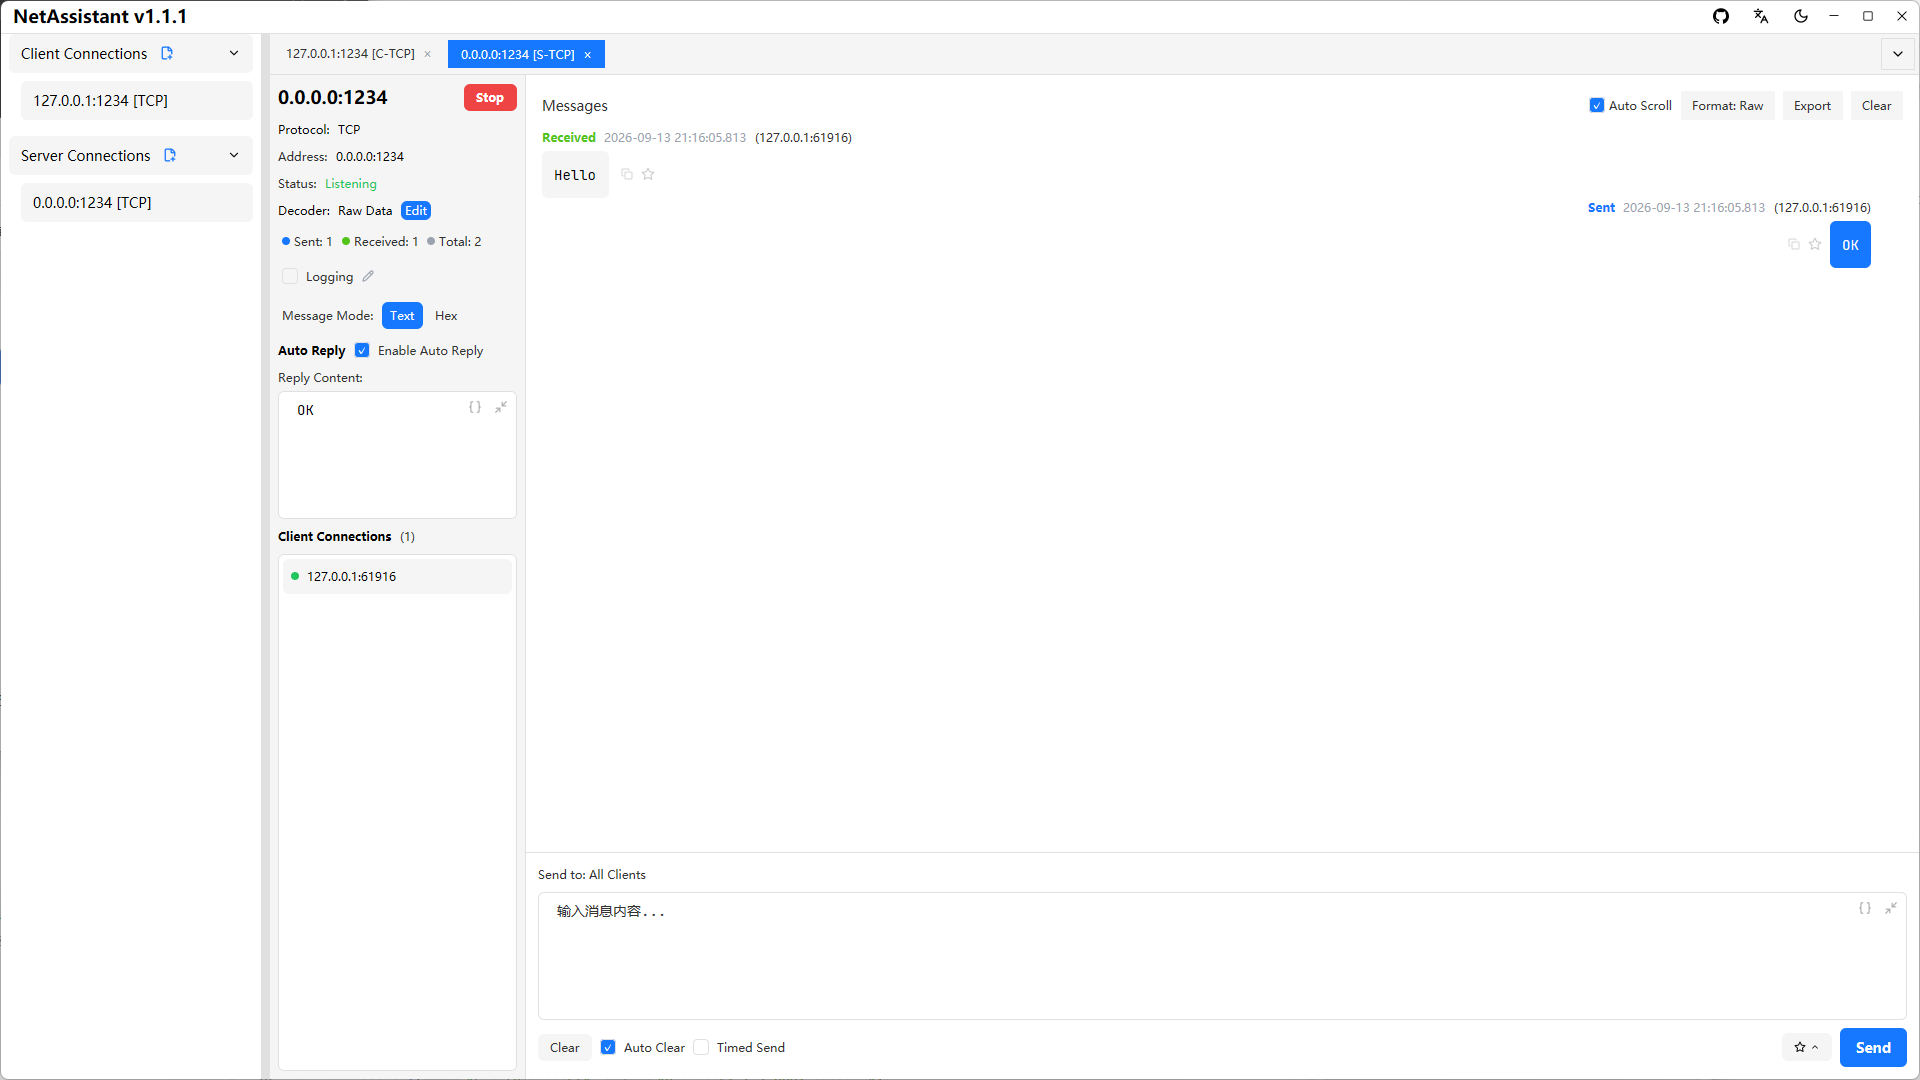
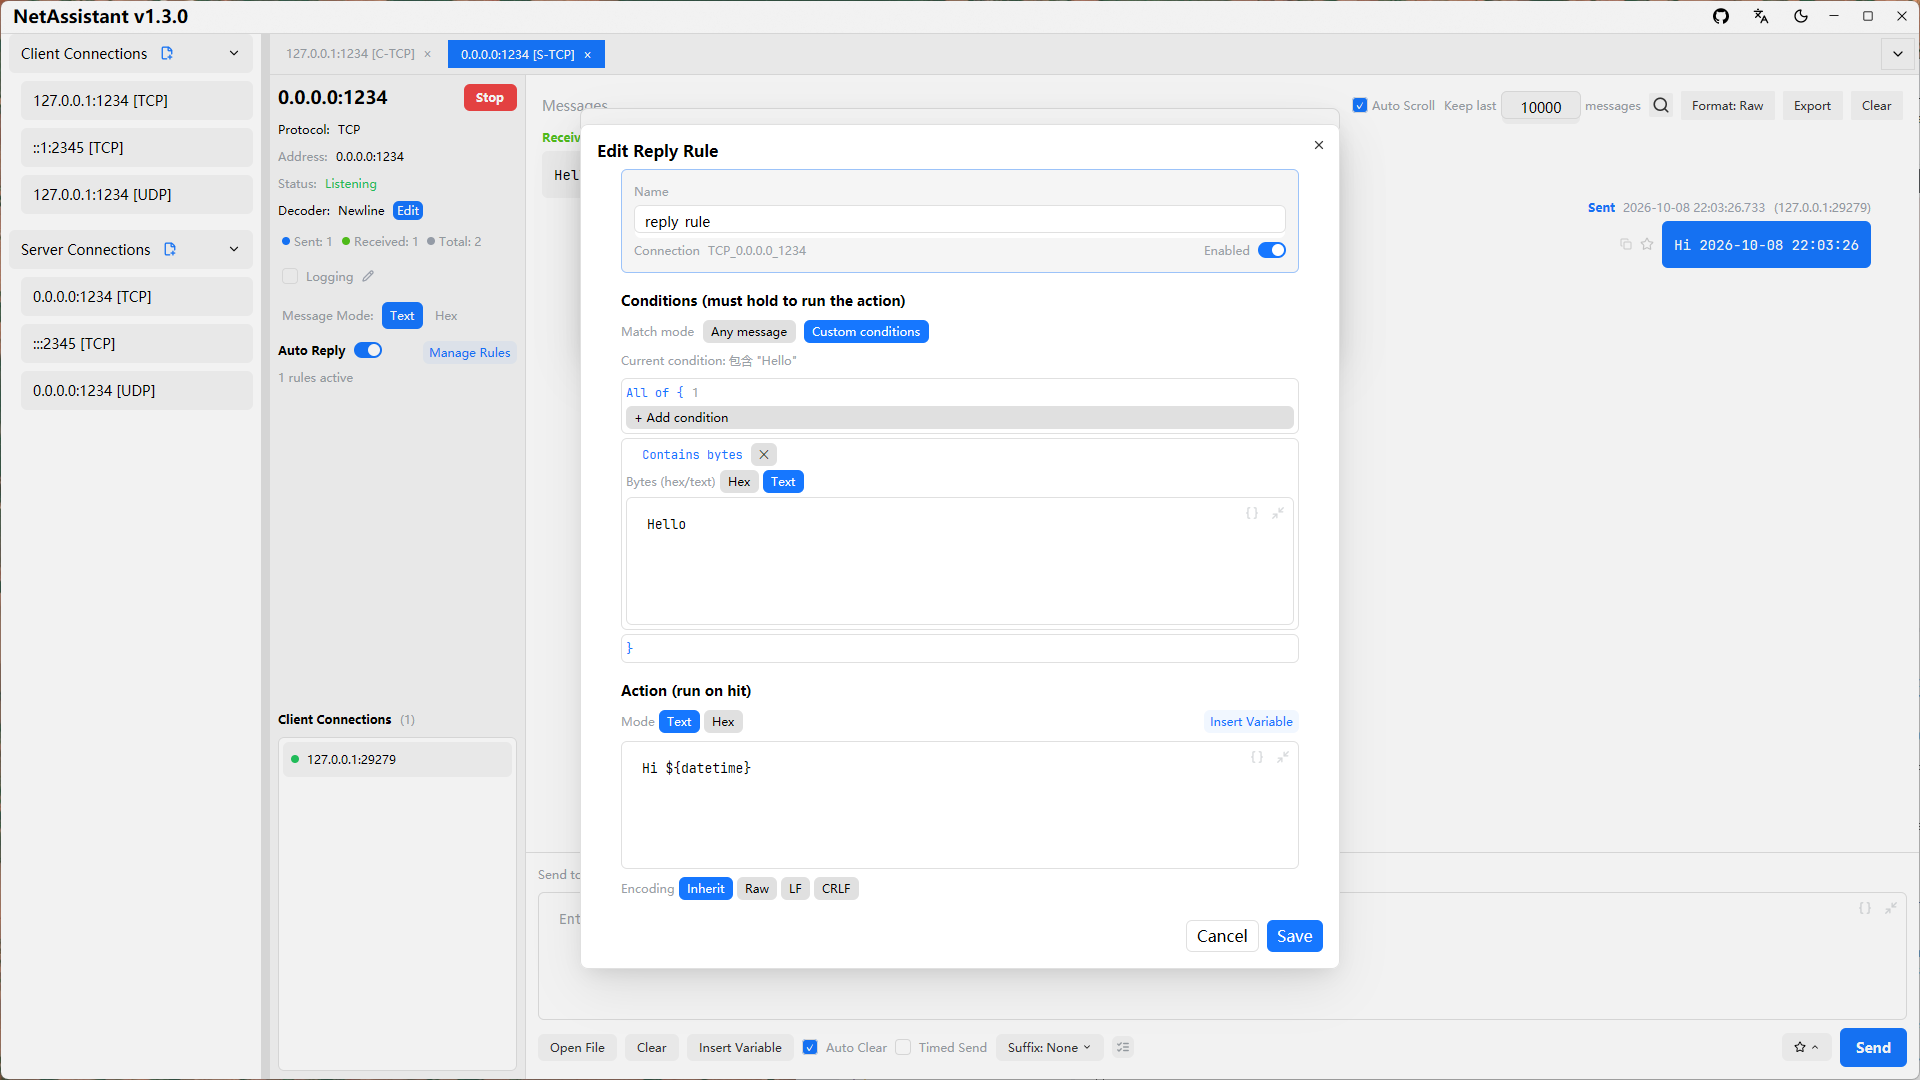
Keep only two distinct previews per review feedback

diff --git a/apps/net-assistant/README.md b/apps/net-assistant/README.md
@@ -2,7 +2,7 @@
 
 NetAssistant is a cross-platform network debugging tool for developers, built with Rust and GPUI Kit. It provides an intuitive chat-style interface for testing TCP and UDP communication in client and server modes, with IPv4 and IPv6 support, making it a handy companion for network application development, hardware debugging and embedded system work. It runs on Windows, Linux and macOS, ships in English and Chinese, and adapts to light and dark system themes.
 
-![NetAssistant client mode with connection details and a chat-style message log](preview0.png)
+![NetAssistant stress testing engine in dark mode with live QPS, latency percentiles and connection statistics](preview0.png)
 
 ## Connections and messages
 
@@ -12,19 +12,15 @@ Manage many connections at once as tabs, with per-connection protocol, address, 
 
 TCP decoders for raw data, line-based frames, length-prefixed frames and JSON solve sticky-packet problems, while the receive area can render JSON in raw, pretty or compact form. The built-in hex editor edits messages in hex and text views, converts ASCII and hex back and forth byte-exactly, loads file data sources in UTF-8, GBK or ANSI encoding with previews, and computes XOR, Sum8, LRC, CRC16-Modbus, CRC16-CCITT-FALSE and CRC32 checksums from a right-click menu.
 
-![TCP decoder handling framed messages](preview2.png)
-
 ## Automation
 
 A per-connection rule engine answers incoming packets automatically. Conditions match on contained bytes, fixed-length exact or masked values, prefix plus length ranges, offset bytes and integers, frame tails, regular expressions, source addresses with CIDR and checksum verification, combined with all-or-any logic and negation at any nesting depth. Replies can reference received frame variables and dynamic values, rules can be reordered by drag and drop with hit statistics and inline trial runs. Send boxes, timed tasks and reply rules share a variable system with sequence numbers, timestamps, UUIDs, random ranges, frame fields and computed checksums. Multi-line send tasks and scheduled heartbeat tasks run with intervals, loops and round limits, all observable from a task panel.
 
-![Reply rule editor with byte-level conditions and drag ordering](preview3.png)
+![Reply rule editor with byte-level conditions and drag ordering](preview1.png)
 
 ## Stress testing
 
-A built-in TCP and UDP stress engine drives high-concurrency load with live QPS, totals for sent, successful and failed operations, active connections, disconnects and reconnects, and byte counters. Ping-Pong mode measures round-trip latency with p50, p95, p99, average and maximum percentiles. Failures are classified by cause — connection, send, receive timeout, peer close or checksum — and results export to CSV. Configuration persists between runs.
-
-![Stress test configuration in dark mode](preview4.png)
+A built-in TCP and UDP stress engine drives high-concurrency load with live QPS, totals for sent, successful and failed operations, active connections, disconnects and reconnects, and byte counters. Ping-Pong mode measures round-trip latency with p50, p95, p99, average and maximum percentiles. Failures are classified by cause — connection, send, receive timeout, peer close or checksum — and results export to CSV. Configuration persists between runs; the panel above shows the engine configured in dark mode.
 
 ## Logs and export
 
